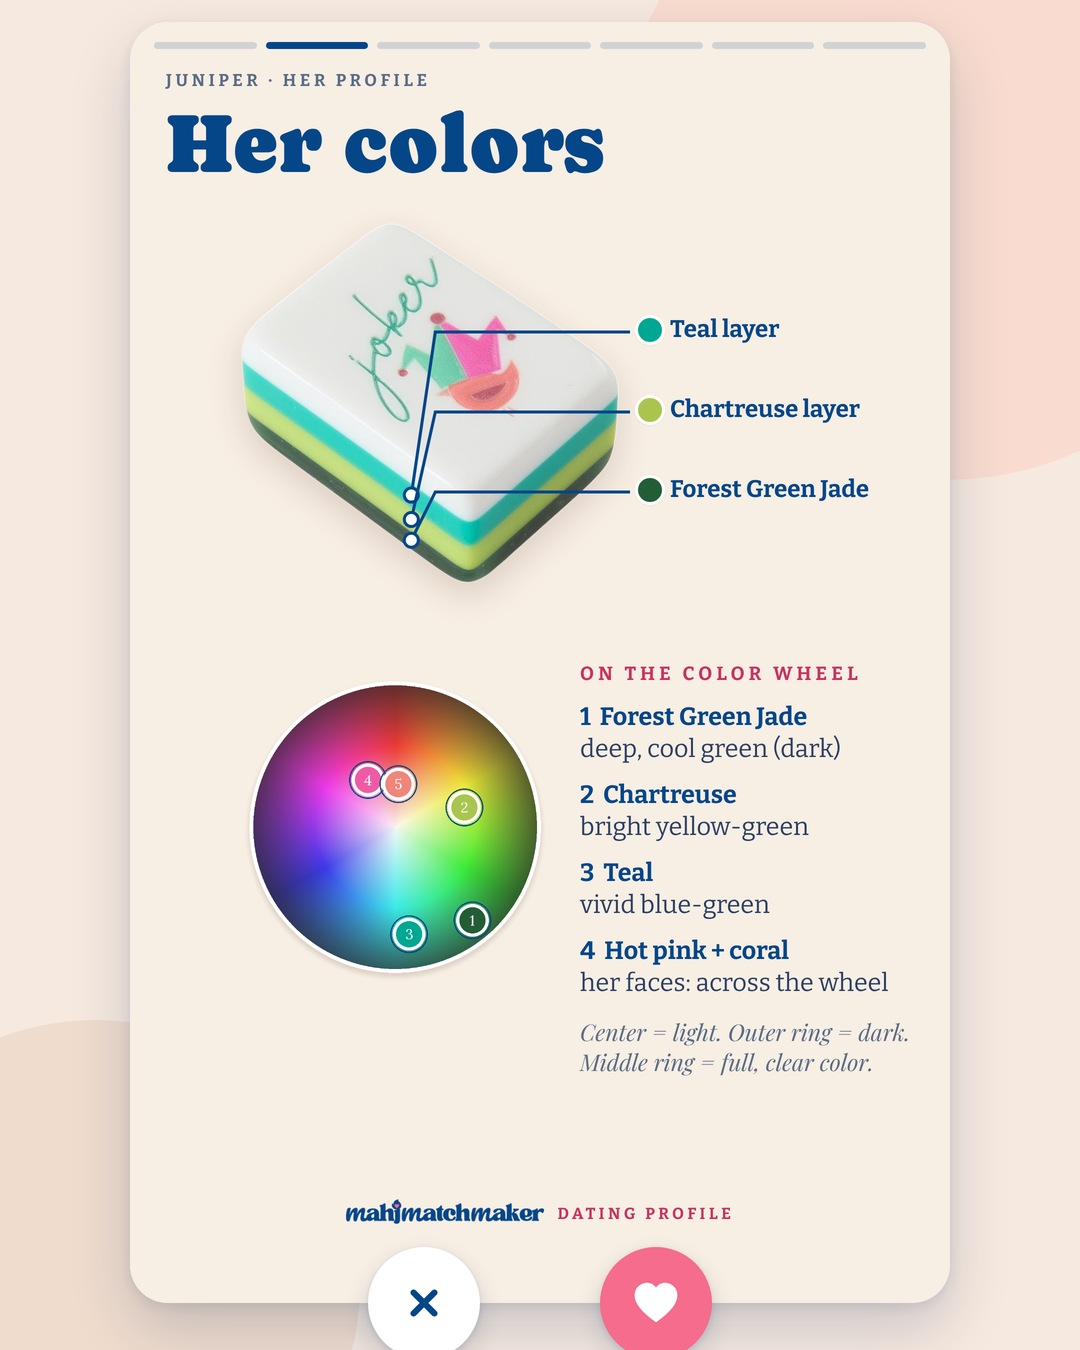
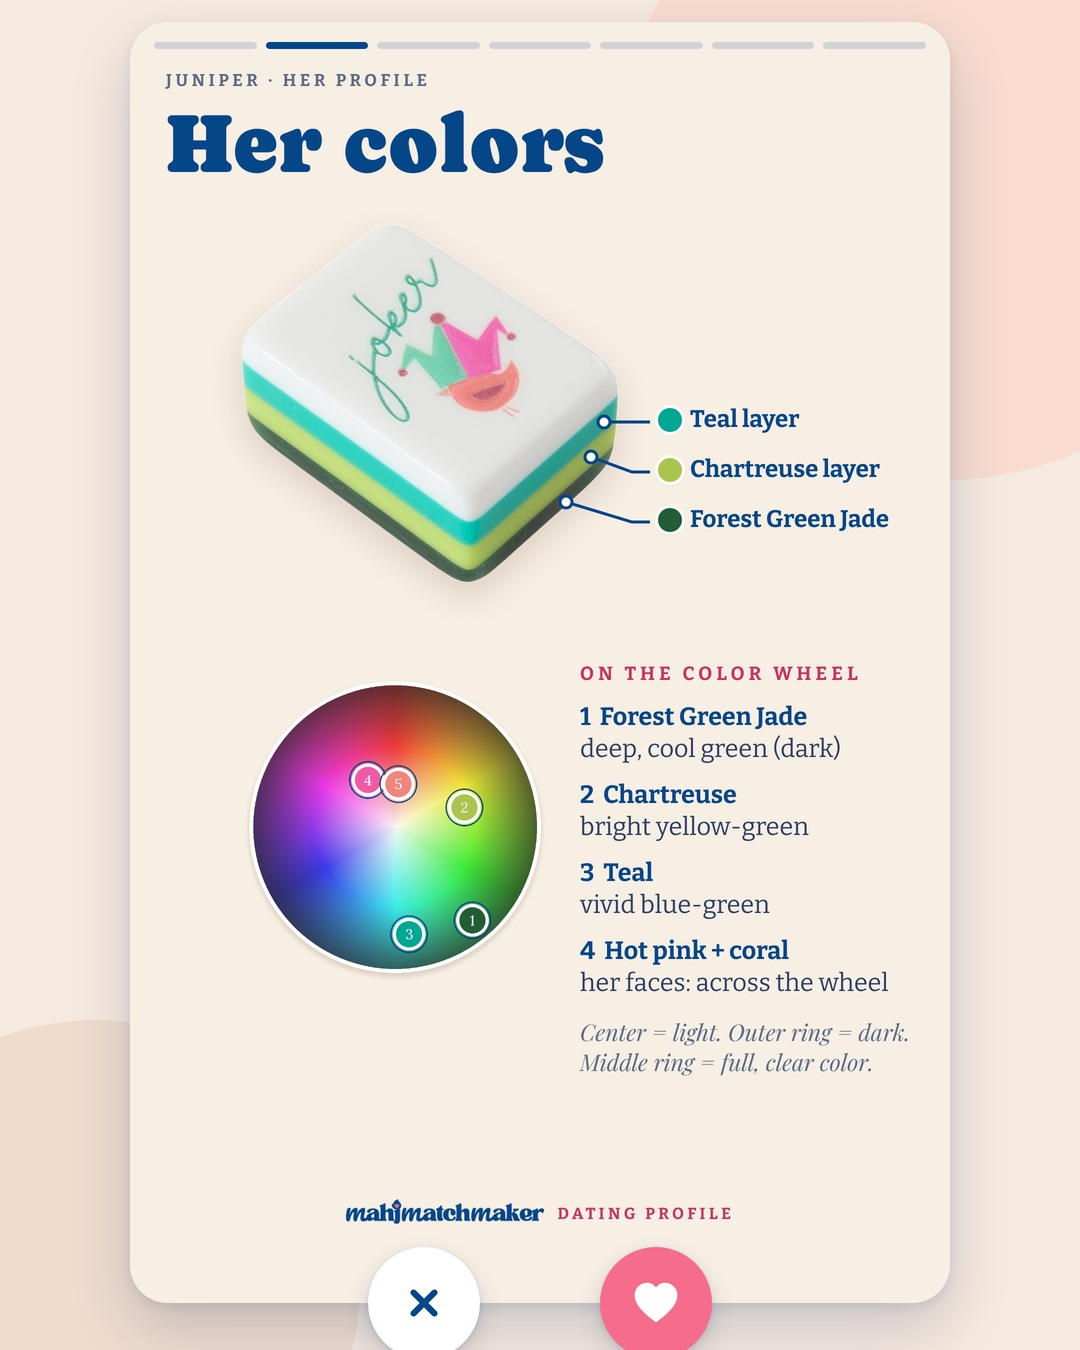
Juniper framed slides: layer dots on the right edge beside the text (2); slide 5 back to the approved copy + real rack proportions
Claude-Session: https://claude.ai/code/session_01QxwYQtmWcAr4s5uYJYP3mA

Changed region(s): [[0.3667, 0.2178, 0.825, 0.4044]]

diff --git a/scripts/social/tileprofile/intro_framed.py b/scripts/social/tileprofile/intro_framed.py
@@ -48,11 +48,12 @@ LY = P.get('layers') or {}
 if LY.get('labels'):   # Juniper-style sets (Nov 10): layer arrows on OMM's own tile photo + wheel notes from the profile, no Papaya text
     sc = 380 / 732; ox, oy = 110, 200
     pts = [(ox + x * sc, oy + y * sc, t, c) for x, y, t, c in LY['labels']]
-    lys = [310, 390, 470][:len(pts)]
+    lys = (LY.get('label_y') or [310, 390, 470])[:len(pts)]
+    lx = 520 if LY.get('label_y') else 500   # Nov 10: short leaders off the right edge, text beside the layers
     diag = (f'<img src="{url(LY["img"])}" style="position:absolute;left:{ox}px;top:{oy}px;width:380px;filter:drop-shadow(0 12px 16px rgba(80,40,20,.16))">'
             '<svg style="position:absolute;left:0;top:0" width="1080" height="1350">' +
-            ''.join(f'<polyline points="{px},{py} {px+24},{ly} 500,{ly}" fill="none" stroke="#054689" stroke-width="3"/><circle cx="{px}" cy="{py}" r="7" fill="#fff" stroke="#054689" stroke-width="3"/>' for (px, py, t, c), ly in zip(pts, lys)) + '</svg>')
-    labs = ''.join(f'{ab(508, ly - 15, "display:flex;align-items:center;gap:8px;font:700 24px/1.05 Bit;color:var(--navy)", 330)}<i style="flex:0 0 24px;height:24px;border-radius:50%;background:{c};box-shadow:0 0 0 3px #fff,0 1px 4px rgba(5,40,90,.25)"></i><span>{e(t)}</span></div>' for (px, py, t, c), ly in zip(pts, lys))
+            ''.join(f'<polyline points="{px},{py} {lx-18},{ly} {lx},{ly}" fill="none" stroke="#054689" stroke-width="3"/><circle cx="{px}" cy="{py}" r="6" fill="#fff" stroke="#054689" stroke-width="3"/>' for (px, py, t, c), ly in zip(pts, lys)) + '</svg>')
+    labs = ''.join(f'{ab(lx + 8, ly - 15, "display:flex;align-items:center;gap:8px;font:700 24px/1.05 Bit;color:var(--navy)", 330)}<i style="flex:0 0 24px;height:24px;border-radius:50%;background:{c};box-shadow:0 0 0 3px #fff,0 1px 4px rgba(5,40,90,.25)"></i><span>{e(t)}</span></div>' for (px, py, t, c), ly in zip(pts, lys))
     notes = '<div style="height:14px"></div>'.join(f'<b style="font-weight:700;color:var(--navy)">{i+1} &nbsp;{e(n)}</b><br>{e(d)}' for i, (n, d) in enumerate(LY.get('wheel_notes', [])))
     s2 = (hdr(('Her colors', 84)) + diag + labs +
           f'<img src="{url(f"assets/colorwheels/{key}-color-wheel-mini.png")}" style="position:absolute;left:100px;top:640px;width:330px;height:330px">'
@@ -99,19 +100,27 @@ s4 = (hdr(('Her best features', 72)) +
 RACK = {'Oh My Mahjong Hot Pink': 'assets/racks/card/oh-my-mahjong-hot-pink.png', 'Oh My Mahjong Agate': 'assets/racks/card/oh-my-mahjong-agate.png', 'Bird & Bamboo Lavender': 'assets/colorcards/papaya-spritz/racks/bird-and-bamboo-lavender.png', 'Peace Love Mahjong Chartreuse': 'assets/racks/card/peace-love-mahjong-chartreuse.png',
         'Peace Love Mahjong Oak': 'assets/racks/card/peace-love-mahjong-oak.png', 'Middle & Main Scalloped Beechwood': 'assets/racks/card/middle--main-scalloped-beechwood.png',
         'Mahjong Row & Co. Scalloped Tortoise': 'assets/racks/card/mahjong-row--co-scalloped-tortoise.png'}
-BRANDS = ('Bird & Bamboo', 'Peace Love Mahjong', 'Middle & Main', 'Miss Mahjong', 'Mahjong Row & Co.', 'Bam Bird Boutique')
-def rrow(r):
+BRANDS = ('Oh My Mahjong', 'Bird & Bamboo', 'Peace Love Mahjong', 'Middle & Main', 'Miss Mahjong', 'Mahjong Row & Co.', 'Bam Bird Boutique')
+def rrow(r):   # same as the APPROVED carousel slide (carousel.py): brand + name on one line, racks at real proportions
     b = next((x for x in BRANDS if r['name'].startswith(x)), r['name'].split()[0]); c = r['name'][len(b) + 1:]
-    return (f'<div style="margin-top:16px"><div class="caps" style="font-size:17px;color:#8a6a80">{e(b)}</div><div class="pf" style="font-size:40px;font-weight:600;line-height:1.1;margin-top:2px">{e(c)}</div>'
-            f'<img src="{url(RACK[r["name"]])}" style="display:block;width:{W}px;height:84px;object-fit:fill;margin-top:8px;filter:drop-shadow(0 8px 10px rgba(6,40,90,.18))"></div>')
+    return (f'<div style="margin-top:22px"><div style="display:flex;align-items:baseline;gap:14px"><span class="caps" style="font-size:17px;color:#8a6a80">{e(b)}</span><span class="pf" style="font-size:40px;font-weight:600">{e(c)}</span></div>'
+            f'<img src="{url(RACK[r["name"]])}" style="display:block;width:{W}px;height:{"auto" if P.get("rack_natural") else "84px"};object-fit:fill;margin-top:8px;filter:drop-shadow(0 8px 10px rgba(6,40,90,.18))"></div>')
 grp = lambda g: ''.join(rrow(r) for r in P['racks'] if r.get('group', 'color') == g)
+# Nov 10 3:46pm (Tiffany): the framed version is the APPROVED slide put in the frame. Same text, same racks, same
+# proportions as carousel.py s4. Never rewrite copy or reshape images when re-framing an approved graphic.
+_ver = grp("versatile")
+if _ver:
+    _body = (f'<div class="caps" style="font-size:19px;color:var(--pink);margin-top:30px">Match her layers</div>{grp("color")}'
+             f'<div style="margin-top:34px;display:flex;align-items:center;gap:14px"><span class="hand" style="font-size:52px;color:var(--navy);line-height:1">super versatile</span>'
+             f'<svg width="62" height="40" viewBox="0 0 70 44"><path d="M4 8 C 28 4, 46 14, 58 34" fill="none" stroke="#c8325f" stroke-width="4" stroke-linecap="round"/><path d="M46 30 L 59 37 L 62 22" fill="none" stroke="#c8325f" stroke-width="4" stroke-linecap="round" stroke-linejoin="round"/></svg>'
+             f'<span class="pf" style="font-size:27px;color:#3c4f73">my go-tos with any set</span></div>{_ver}'
+             f'<div class="hand" style="font-size:40px;margin-top:22px;color:var(--pink)">now, who she&rsquo;s dating &rarr;</div>')
+else:
+    _body = (grp("color") + f'<div class="hand" style="font-size:44px;margin-top:34px;color:var(--navy)">{P.get("racks_hand", "all three picked for her, not just any rack")} &hearts;</div>'
+             f'<div class="hand" style="font-size:40px;margin-top:6px;color:var(--pink)">now, who she&rsquo;s dating &rarr;</div>')
 s5 = (hdr(("Racks she's into", 80)) +
       f'{ab(L, 180, "", W)}<div class="pf" style="font-size:29px;line-height:1.25;color:#3c4f73">A color from her layers, or a rack that goes with everything.</div>'
-      f'<div class="caps" style="font-size:19px;color:var(--pink);margin-top:30px">Match her layers</div>{grp("color")}'
-      f'<div style="margin-top:34px;display:flex;align-items:center;gap:14px"><span class="hand" style="font-size:52px;color:var(--navy);line-height:1">super versatile</span>'
-      f'<svg width="62" height="40" viewBox="0 0 70 44"><path d="M4 8 C 28 4, 46 14, 58 34" fill="none" stroke="#c8325f" stroke-width="4" stroke-linecap="round"/><path d="M46 30 L 59 37 L 62 22" fill="none" stroke="#c8325f" stroke-width="4" stroke-linecap="round" stroke-linejoin="round"/></svg>'
-      f'<span class="pf" style="font-size:27px;color:#3c4f73">my go-tos</span></div>{grp("versatile")}'
-      f'<div class="hand" style="font-size:46px;margin-top:22px;color:var(--pink)">now, who she&rsquo;s dating &rarr;</div></div>')
+      + _body + '</div>')
 
 # ---- slide 6: made for each other (text UNDER the photo row, Tiffany Oct 20)
 pr = P['omm_launch']['pair']
